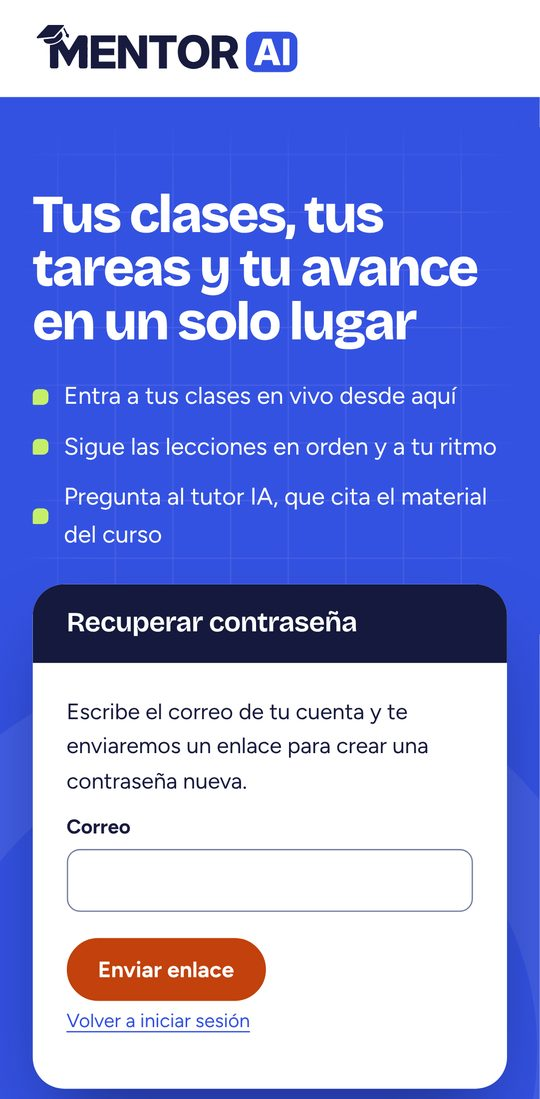
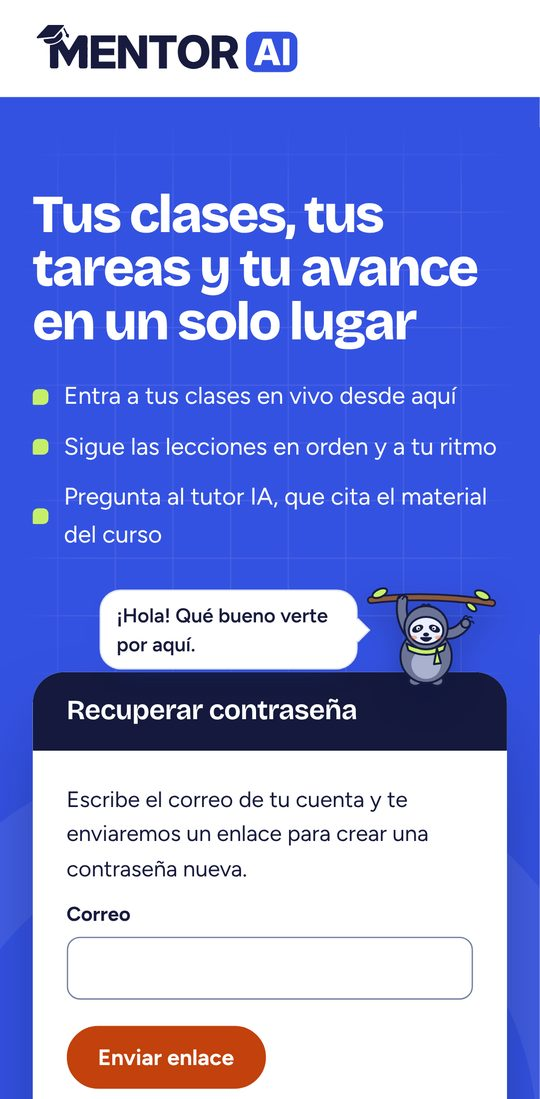
feat(frontend): Pausa saluda en la portada pública
- Pausa cuelga sobre el formulario de iniciar sesión, recuperar y activar, y saluda una vez.
- Se carga aparte (lazy) para no sumar GSAP a la primera pantalla.
- Mockups de la portada, ficha de marca y estado actualizados.

Claude-Session: https://claude.ai/code/session_01HWhhskBB4jkRYBLk5nnoMy

Changed region(s): [[0.0593, 0.5259, 0.9481, 1.0], [0.8593, 0.7734, 0.8889, 0.8353], [0.8593, 0.8662, 0.8889, 0.8972]]

diff --git a/frontend/src/Componentes/Portada.jsx b/frontend/src/Componentes/Portada.jsx
@@ -2,10 +2,13 @@ import { lazy, Suspense, useEffect, useRef, useState } from 'react';
 import { prefiereMenosMovimiento } from '../hooks/useMovimiento.js';
 import Ilustracion from './Ilustracion.jsx';
 import Logo from './Logo.jsx';
+import { MENSAJE_PORTADA } from '../utils/mensajesMascota.js';
 
 // La cuadrícula decorativa y la rejilla animada se descargan aparte: el formulario funciona mientras llegan.
 const ShapeGrid = lazy(() => import('./ShapeGrid.jsx'));
 const RejillaRasgos = lazy(() => import('./RejillaRasgos.jsx'));
+// Pausa (con GSAP) también llega aparte, para no sumar peso a la primera pantalla.
+const Mascota = lazy(() => import('./Mascota.jsx'));
 
 // Parámetros de Shape Grid ajustados a la paleta de MENTOR (azul de estructura, cielo para el brillo de entrada).
 // Sin velocidad ni dirección: la cuadrícula aparece con una onda breve y queda quieta.
@@ -81,9 +84,15 @@ export default function Portada({ titulo, children }) {
             <li>Pregunta al tutor IA, que cita el material del curso</li>
           </ul>
         </div>
-        <div className="tarjeta formulario-portada">
-          <h2>{titulo}</h2>
-          <div className="formulario-cuerpo">{children}</div>
+        <div className="portada-acceso">
+          {/* Pausa cuelga sobre el formulario y saluda una vez; es decorativa y respeta «Mostrar mascotas» y «Menos movimiento». */}
+          <Suspense fallback={null}>
+            <Mascota personaje="pausa" estado="bienvenida" tamano="mediano" animacion={1} mensaje={MENSAJE_PORTADA} className="mascota-portada" />
+          </Suspense>
+          <div className="tarjeta formulario-portada">
+            <h2>{titulo}</h2>
+            <div className="formulario-cuerpo">{children}</div>
+          </div>
         </div>
         <a className="flecha-abajo" href="#detalles" aria-label="Ver más sobre la plataforma">↓</a>
       </section>

diff --git a/frontend/src/Componentes/Recorrido.css b/frontend/src/Componentes/Recorrido.css
@@ -241,3 +241,16 @@
   .banner-rango > a { margin-left: 84px; }
 }
 .practica-orbi { margin-left: auto; margin-right: 16px; }
+
+/* --- Pausa saluda en la portada (inicio de sesión, recuperar y activar) --- */
+/* Cuelga de su rama justo encima del formulario, con la burbuja a la izquierda. */
+.portada-acceso { position: relative; z-index: 2; display: flex; flex-direction: column; min-width: 0; }
+.mascota-portada { flex-direction: row-reverse; justify-content: flex-start; align-items: center; gap: 4px; margin: 0 6px -14px 0; position: relative; z-index: 3; }
+.mascota-portada > svg { width: clamp(120px, 11vw, 150px); height: auto; filter: drop-shadow(0 10px 12px rgba(10, 16, 60, 0.3)); }
+.mascota-portada .burbuja-mascota { max-width: 20ch; font-size: 0.95rem; margin-bottom: 18px; }
+/* La flecha de la burbuja apunta a Pausa, que queda a la derecha. */
+.mascota-portada .burbuja-mascota::before { left: auto; right: -7.5px; transform: translateY(-50%) rotate(-135deg); }
+@media (max-width: 560px) {
+  .mascota-portada > svg { width: 104px; }
+  .mascota-portada .burbuja-mascota { font-size: 0.9rem; padding: 8px 12px; margin-bottom: 12px; }
+}

diff --git a/frontend/src/utils/mensajesMascota.js b/frontend/src/utils/mensajesMascota.js
@@ -34,6 +34,7 @@ export const MENSAJES_PAREJAS = {
 };
 
 // Pausa: regreso y estados tranquilos.
+export const MENSAJE_PORTADA = '¡Hola! Qué bueno verte por aquí.';
 export const MENSAJE_REGRESO = '¡Qué bueno verte! Seguimos donde lo dejaste.';
 export const MENSAJE_RITMO = 'Aprende a tu ritmo.';
 export const mensajeMovimiento = (reducido) => (reducido

diff --git a/docs/marca/mascotas/README.md b/docs/marca/mascotas/README.md
@@ -4,7 +4,7 @@
 
 ## Quiénes son
 - **Orbi** (principal): un planeta con birrete, cinturón con hebilla lima y un mapa con el camino punteado. Acompaña el recorrido del curso: el mapa, el rango, Parejas, las celebraciones y el tutor.
-- **Pausa** (bienestar): un perezoso colgado de una rama, con bufanda lima. Aparece en los momentos tranquilos: la bienvenida de regreso, los estados vacíos y el aviso de «Menos movimiento».
+- **Pausa** (bienestar): un perezoso colgado de una rama, con bufanda lima. Aparece en los momentos tranquilos: el saludo de la portada, la bienvenida de regreso, los estados vacíos y el aviso de «Menos movimiento».
 
 ## Archivos
 | Archivo | Uso |
@@ -24,7 +24,7 @@ En la app se dibujan con `Componentes/Orbi.jsx`, `Pausa.jsx`, `OrbiSticker.jsx` 
 | Orbi | Pensando | Tutor IA, mientras busca en el material |
 | Orbi | Celebrando | Subir de rango, terminar un módulo, recorrido completo |
 | Orbi | Descanso | Reservado, aún sin uso en pantalla |
-| Pausa | Bienvenida | Inicio, tras 7 días o más sin actividad de aprendizaje |
+| Pausa | Bienvenida | Portada pública (iniciar sesión, recuperar y activar), colgada sobre el formulario; inicio del estudiante tras 7 días o más sin actividad de aprendizaje |
 | Pausa | Leyendo | Estados vacíos (sin cursos, curso sin lecciones) y Configuración |
 | Pausa | Dormido | Sin novedades, módulo sin lecciones o sin preguntas de práctica; Configuración con «Menos movimiento» |
 

diff --git a/docs/ESTADO_DESARROLLO_PARA_CLAUDE.md b/docs/ESTADO_DESARROLLO_PARA_CLAUDE.md
@@ -37,6 +37,12 @@ Ejecutado el 2026-11-25:
 - Mockups regenerados: 49 por formato, con el mapa (13b), Parejas (18b) y la celebración de rango (27b).
 - Modelo de datos: 76 tablas, 765 columnas y 159 llaves foráneas; entregables en Word y PDF regenerados.
 
+Después del PR #19 (mismo día):
+- Pausa saluda en la portada pública (iniciar sesión, recuperar y activar): cuelga de su rama sobre el formulario, saluda una vez y dice «¡Hola! Qué bueno verte por aquí.».
+- Se carga aparte con `lazy`, así que el formulario no espera a GSAP. Carga inicial comprimida: 99 008 bytes.
+- Se revisó en 1440, 1000 y 390 px, en claro y oscuro. Al lado del título dejaba el título en una columna demasiado angosta a 1000 px, por eso va sobre la tarjeta.
+- Lint; frontend 85/85; Playwright `accesibilidad` y `acceso` 15/15; mockups 01–03 regenerados.
+
 Pendiente:
 - La bienvenida de Pausa no está en los mockups, porque necesita 7 días sin actividad. Se revisó en una base efímera con fechas movidas.
 - El estado «descanso» de Orbi está dibujado pero todavía no tiene una pantalla.
